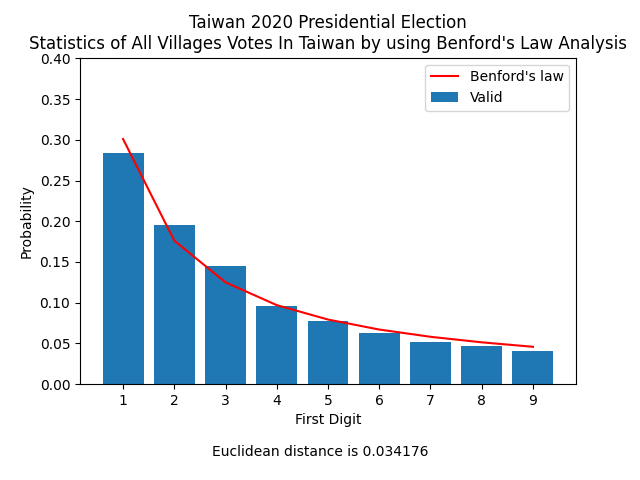
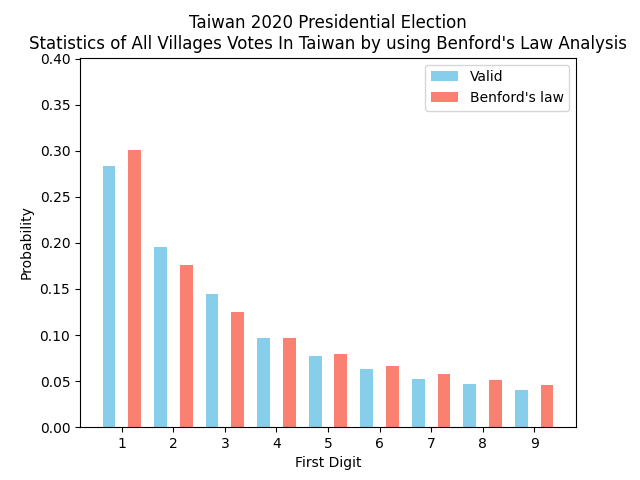
Update for showing two bars on the charts

diff --git a/visualize_data.py b/visualize_data.py
@@ -9,7 +9,6 @@ import re
 from os import listdir
 from os.path import isfile, join
 from pandas import DataFrame
-from scipy.spatial import distance
 
 from benfords_law import BenfordsLaw
 
@@ -115,26 +114,31 @@ def output_data_to_graph(
     plt.xlabel("First Digit")
     plt.ylabel("Probability")
 
+    width = 0.25
     data_x = np.array(BenfordsLaw.DIGITS)
     data_y = np.array(probability)
-    plt.bar(data_x, data_y)
+    base_y = np.array(BenfordsLaw.BENFORDS_LAW_PROBABILITY)
 
-    plt.plot(
-        BenfordsLaw.DIGITS,
-        BenfordsLaw.BENFORDS_LAW_PROBABILITY, "r"
+    plt.bar(
+        data_x - width,
+        data_y,
+        width,
+        label=remove_special(data_name),
+        color='skyblue'
+    )
+    plt.bar(
+        data_x + width,
+        base_y,
+        width,
+        label="Benford's law",
+        color='salmon'
     )
 
-    legend = ["Benford's law", remove_special(data_name)]
-    plt.legend(legend)
+    plt.legend()
 
     plt.xticks(BenfordsLaw.DIGITS)
     current_axes = plt.gca()
     current_axes.set_ylim([0, BenfordsLaw.BENFORDS_LAW_PROBABILITY[0] + 0.1])
-
-    dist = count_data_distance(list1=probability, list2=BenfordsLaw.BENFORDS_LAW_PROBABILITY)
-    print("dist=" + str(dist))
-    plt.figtext(0.5, 0.05, "Euclidean distance is " + str(round(dist, 6)), ha="center")
-    plt.subplots_adjust(bottom=0.2)
 
     output = os.path.join(output_folder, data_name + ".png")
     plt.savefig(output)
@@ -143,11 +147,6 @@ def output_data_to_graph(
 def remove_special(text):
     text = re.sub("[^a-zA-Z0-9]+", "", text)
     return text
-
-
-def count_data_distance(list1: list, list2: list) -> float:
-    dist = distance.euclidean(list1, list2)
-    return dist
 
 
 raw_data_files = [os.path.join(RAW_DATA_FOLDER, f) for f in listdir(
